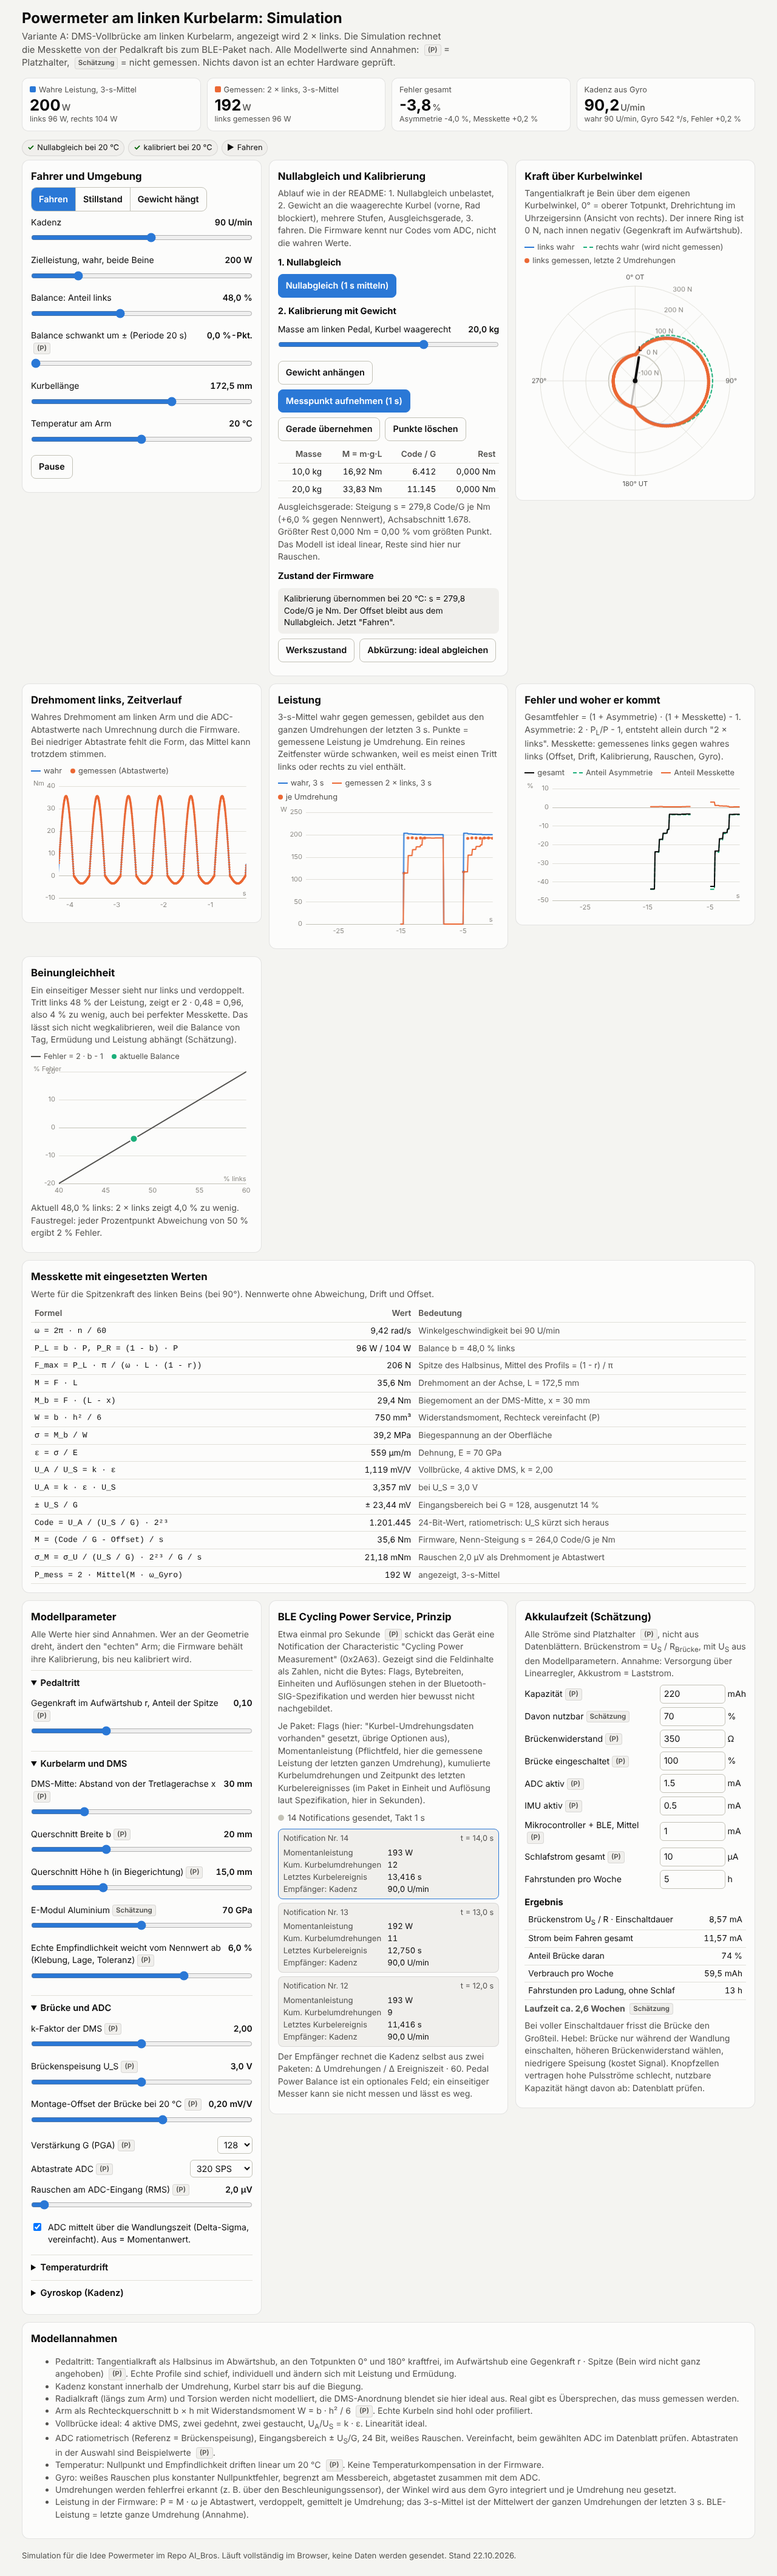
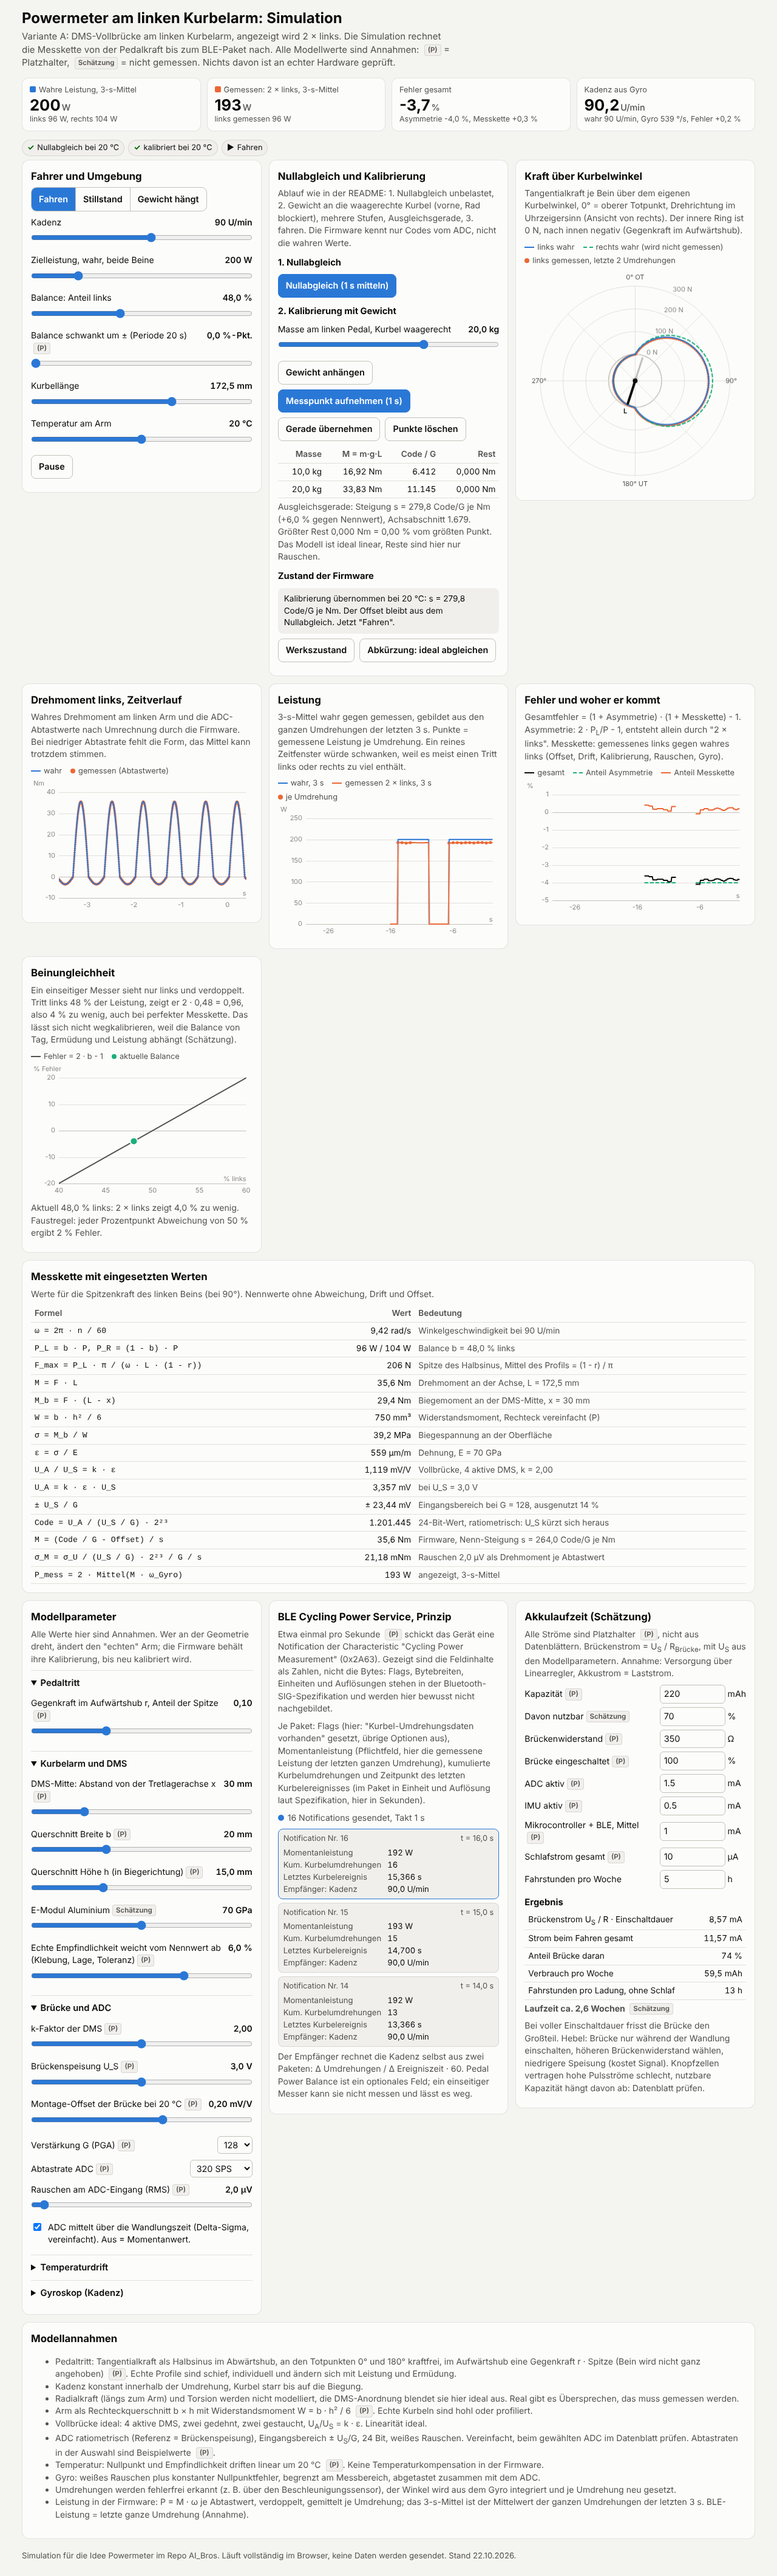
Powermeter: Variante A, interaktive Simulation
Claude-Session: https://claude.ai/code/session_01FgWHWihrsdXCWXeAdyvDMP

diff --git a/ideen/powermeter/sim/index.html b/ideen/powermeter/sim/index.html
@@ -161,6 +161,13 @@ th, td { text-align: left; padding: 4px 6px; border-bottom: 1px solid var(--grid
 th { color: var(--ink2); font-weight: 600; }
 td.num, th.num { text-align: right; font-variant-numeric: tabular-nums; white-space: nowrap; }
 .tablewrap { overflow-x: auto; -webkit-overflow-scrolling: touch; max-width: 100%; }
+@media (max-width: 640px) {
+  .formula thead { display: none; }
+  .formula tr { display: grid; grid-template-columns: 1fr auto; gap: 2px 10px; padding: 6px 0; border-bottom: 1px solid var(--grid); }
+  .formula td { border: 0; padding: 0; }
+  .formula td.num { text-align: left; }
+  .formula td:first-child { grid-column: 1 / -1; }
+}
 .formula td:first-child { font-family: ui-monospace, "SF Mono", Menlo, Consolas, monospace; font-size: 0.82rem; color: var(--ink); }
 details { border-top: 1px solid var(--grid); padding: 6px 0; }
 details > summary { cursor: pointer; font-weight: 600; font-size: 0.92rem; padding: 4px 0; }
@@ -362,9 +369,11 @@ const DT = 1e-4;            // interner Zeitschritt 0,1 ms
 const FS24 = 8388608;       // 2^23
 const $ = (s) => document.querySelector(s);
 const clamp = (v, a, b) => Math.min(b, Math.max(a, v));
-const fmt = (v, d = 0) => Number.isFinite(v)
-  ? v.toLocaleString('de-DE', { minimumFractionDigits: d, maximumFractionDigits: d })
-  : '-';
+const fmt = (v, d = 0) => {
+  if (!Number.isFinite(v)) return '-';
+  const r = Number(v.toFixed(d));
+  return (r === 0 ? 0 : r).toLocaleString('de-DE', { minimumFractionDigits: d, maximumFractionDigits: d });
+};
 const fmtS = (v, d = 1) => { if (!Number.isFinite(v)) return '-'; const r = Number(v.toFixed(d)); return (r > 0 ? '+' : '') + fmt(r === 0 ? 0 : r, d); };
 function randn() {
   let u = 0, v = 0;
@@ -512,7 +521,7 @@ const S = {
   t: 0, theta: Math.PI / 2, mode: 'fahren', mass: 10, paused: false,
   FL: 0, FR: 0, w: 0, UA: 0,
   acc: { u: 0, t: 0 }, thetaEst: Math.PI / 2, lastSampleT: 0,
-  revCount: 0, lastEventT: 0, rev: { sumP: 0, n: 0, eTrue: 0, eTrueL: 0, dt: 0 },
+  revCount: 0, lastEventT: 0, rev: { sumP: 0, n: 0, eTrue: 0, eTrueL: 0, dt: 0, partial: true },
   torque: [], samples: [], power: [], revs: [], win: [],
   nextTorqueT: 0, nextPowerT: 0,
   clipAdc: -10, clipGyro: -10,
@@ -575,11 +584,11 @@ function step(dt) {
     S.theta -= TAU;
     S.revCount++;
     S.lastEventT = t;
-    if (S.rev.n > 0) S.revs.push({ t, meas: S.rev.sumP / S.rev.n, tru: S.rev.eTrue / S.rev.dt, truL: S.rev.eTrueL / S.rev.dt });
+    if (S.rev.n > 0 && !S.rev.partial) S.revs.push({ t, meas: S.rev.sumP / S.rev.n, tru: S.rev.eTrue / S.rev.dt, truL: S.rev.eTrueL / S.rev.dt });
     S.rev = { sumP: 0, n: 0, eTrue: 0, eTrueL: 0, dt: 0 };
     S.thetaEst = S.theta;
   }
-  if (S.mode !== 'fahren') { S.rev = { sumP: 0, n: 0, eTrue: 0, eTrueL: 0, dt: 0 }; }
+  if (S.mode !== 'fahren') { S.rev = { sumP: 0, n: 0, eTrue: 0, eTrueL: 0, dt: 0, partial: true }; }
 
   if (t >= S.nextTorqueT) {
     S.nextTorqueT = t + 0.0025;
@@ -809,7 +818,7 @@ function attachHover(cv) {
 */
 function drawChart(cv, o) {
   const { ctx, w, h } = fit(cv);
-  const padL = 46, padR = 10, padT = 10, padB = 26;
+  const padL = 46, padR = 10, padT = 20, padB = 26;
   const pw = w - padL - padR, ph = h - padT - padB;
   let yMin = Infinity, yMax = -Infinity;
   for (const s of o.series) for (const p of s.pts) {
@@ -933,7 +942,7 @@ function drawPolar() {
     ctx.beginPath(); ctx.arc(cx, cy, rr, 0, TAU); ctx.stroke();
     const [lx, ly] = pt(Math.PI / 8, rr);
     ctx.fillStyle = C.muted; ctx.textAlign = 'left'; ctx.textBaseline = 'bottom';
-    ctx.fillText(fmt(F) + ' N', lx + 2, ly - 1);
+    if (F >= 0) ctx.fillText(fmt(F) + ' N', lx + 2, ly - 1);
   }
   // Speichen
   ctx.strokeStyle = C.grid; ctx.lineWidth = 1;
@@ -959,15 +968,15 @@ function drawPolar() {
     }
     ctx.closePath(); ctx.stroke(); ctx.setLineDash([]);
   };
-  if (S.mode === 'fahren') { curve(pf.FpR, C.s3, true); curve(pf.FpL, C.s1, false); }
   // Messpunkte
   const revT = S.mode === 'fahren' ? 2 * 60 / P.rpm : 0.5;
   ctx.fillStyle = C.s2;
   for (const s of S.samples) {
     if (s.t < S.t - revT) continue;
     const [x, y] = pt(s.th, rad(s.F));
-    ctx.beginPath(); ctx.arc(x, y, 2.6, 0, TAU); ctx.fill();
+    ctx.beginPath(); ctx.arc(x, y, P.fs >= 320 ? 1.8 : 3, 0, TAU); ctx.fill();
   }
+  if (S.mode === 'fahren') { curve(pf.FpR, C.s3, true); curve(pf.FpL, C.s1, false); }
   // Kurbelarme
   const thL = S.theta;
   ctx.lineCap = 'round';
@@ -999,8 +1008,8 @@ function drawAll() {
   drawChart($('#cvTorque'), {
     xMin: t - 4, xMax: t, yUnit: 'Nm', xUnit: 's', xFmt: (x) => fmt(x - t, 0), minSpan: 2,
     series: [
-      { pts: S.torque.map(p => [p.t, p.M]), color: C.s1, name: 'wahr', d: 1 },
       { pts: S.samples.map(p => [p.t, p.M]), color: C.s2, dots: true, r: P.fs >= 320 ? 1.8 : 3, name: 'gemessen', d: 1 },
+      { pts: S.torque.map(p => [p.t, p.M]), color: C.s1, name: 'wahr', d: 1 },
     ],
   });
   drawChart($('#cvPower'), {

diff --git a/ideen/powermeter/README.md b/ideen/powermeter/README.md
@@ -1,6 +1,7 @@
 # Idee: Powermeter (Fahrrad-Leistungsmesser zum Selberbauen)
 
-Stand: 22.10.2026. Noch nicht entschieden, eine von mehreren Ideen.
+Stand: 22.10.2026. Ob die Idee gebaut wird, ist noch nicht entschieden (eine von mehreren Ideen).
+**Innerhalb der Idee entschieden (Nutzer, 22.10.2026): Variante A, linker Kurbelarm, DMS-Vollbrücke.**
 Rahmen: 3 Leute, Hobby, Budget Team 300 €, Karlsruhe.
 
 ## Idee
@@ -12,6 +13,15 @@ machbar, weil das Messprinzip einfach ist. Schwer sind Genauigkeit, Temperaturve
 Wasserschutz und vor allem: **am Kurbelarm hängt die Sicherheit des Fahrers**.
 
 ![Blockdiagramm](aufbau.svg)
+
+**Interaktive Simulation:** [`sim/index.html`](sim/index.html) (im Browser öffnen, eine
+Datei, offline). Rechnet die Messkette von Variante A nach: Pedaltritt, Biegung, Dehnung,
+Vollbrücke, ADC mit Rauschen und Temperaturdrift, Nullabgleich und Kalibrierung mit
+Gewicht, Kadenz aus dem Gyro, 2 × links gegen wahre Leistung, BLE-CPS-Paket im Prinzip
+und einen Akkulaufzeit-Rechner. Alle Modellwerte sind Platzhalter (P) oder Schätzung,
+nichts ist gemessen.
+
+![Screenshot der Simulation](sim/screenshot.png)
 
 ## Physik
 
@@ -76,7 +86,10 @@ Wasserschutz und vor allem: **am Kurbelarm hängt die Sicherheit des Fahrers**.
 | Risiko Mechanik | mittel (Kurbel bleibt unbearbeitet, nur geklebt) | mittel bis hoch | hoch | mittel (Speichen, Lager) |
 | Budget 300 € | ja | knapp | eher nein | knapp |
 
-## Empfehlung
+## Entscheidung: Variante A
+
+**Entscheidung des Nutzers (22.10.2026): Variante A, linker Kurbelarm, einseitig, DMS-Vollbrücke.**
+Die Empfehlung lautete ebenfalls A, Begründung siehe unten.
 
 **Variante A: linker Kurbelarm, einseitig.** Das ist der Weg, den auch viele
 Kaufgeräte im Einstiegssegment gehen. Begründung:
@@ -235,7 +248,8 @@ Wer einen Smart-Trainer hat, kann ihn als Referenz nutzen.
 
 ## Offene Entscheidungen
 
-- Variante A bestätigen? Später zweiseitig? (Annahme: A, einseitig)
+- ~~Variante A bestätigen?~~ Entschieden vom Nutzer am 22.10.2026: Variante A, linker Kurbelarm, DMS-Vollbrücke.
+- Später zweiseitig? (Annahme: erst einseitig)
 - Mikrocontroller-Klasse: nRF52 oder ESP32 (Annahme: nRF52 wegen Stromverbrauch)
 - ADC: HX711 oder ADS1220-Klasse (nach Datenblattvergleich, Abtastrate entscheidend)
 - Nur BLE oder auch ANT+ (Annahme: erst BLE; ANT+-Bedingungen nicht geprüft)

diff --git a/README.md b/README.md
@@ -17,7 +17,7 @@ Budget 300 Euro, Raspberry Pi ist vorhanden. Doku auf Deutsch.
 | [Besetzt-Lampe](ideen/besetzt-lampe/) | Rot/grün-Lampe vor dem Bad wie im Flugzeug, ohne Kamera und ohne Logging | Konzept, Sensorvarianten und Stückliste | ca. 30 bis 80 € |
 | [Jalousien nachrüsten](ideen/jalousien/) | Vorhandene Rollläden/Jalousien motorisieren, Automatik nach Zeit und Sonne | Konzept je Jalousietyp, Typ bei uns noch offen | ca. 35 bis 70 € je Fenster |
 | [Topf-Addon (Thermomix light)](ideen/topf-addon/) | Rührwerk, Temperatursonde und Waage mit Rezept-Schrittmodus für normale Töpfe | Konzept, Empfehlung Variante C, Ausbau zu B | ca. 90 bis 225 € (C), bis 310 € (B) |
-| [Powermeter](ideen/powermeter/) | Eigener Leistungsmesser am linken Kurbelarm (DMS-Vollbrücke), sendet per BLE an Garmin/Wahoo/Zwift | Konzept, Messprinzip-Skizze, Stückliste | ca. 125 bis 325 € |
+| [Powermeter](ideen/powermeter/) | Eigener Leistungsmesser am linken Kurbelarm (DMS-Vollbrücke), sendet per BLE an Garmin/Wahoo/Zwift | Konzept, Variante A entschieden, Messprinzip-Skizze, Stückliste, [interaktive Simulation](ideen/powermeter/sim/index.html) | ca. 125 bis 325 € |
 | [Gravel-Navi](ideen/gravel-navi/) | Eigenes Fahrradnavi mit Offline-OSM-Karten im Gravel-Stil, Routing am PC mit BRouter | Konzept, Display-Mockup, Varianten A bis D | ca. 165 bis 245 € (Variante A) |
 | [WG-Energie](ideen/wg-energie/) *(Vorschlag Claude)* | Zwischenstecker an Großgeräten (Start, Zähler hängt im Keller), Home Assistant, E-Paper im Flur; Zähler-Lesekopf als Ausbau | Konzept, Dashboard-Mockup, [Simulation](ideen/wg-energie/sim/index.html), Annahme: Start mit Variante B | ca. 65 bis 180 € (B), 90 bis 250 € (A) |
 | [Smart-Trainer](ideen/smart-trainer/) *(Vorschlag Claude)* | Einfachen Magnet-Rollentrainer zum BLE-Smart-Trainer (FTMS, ERG-Modus) umbauen | Konzept, Prinzip-Skizze, [interaktive Simulation](ideen/smart-trainer/sim/index.html) | ca. 60 bis 110 € |
